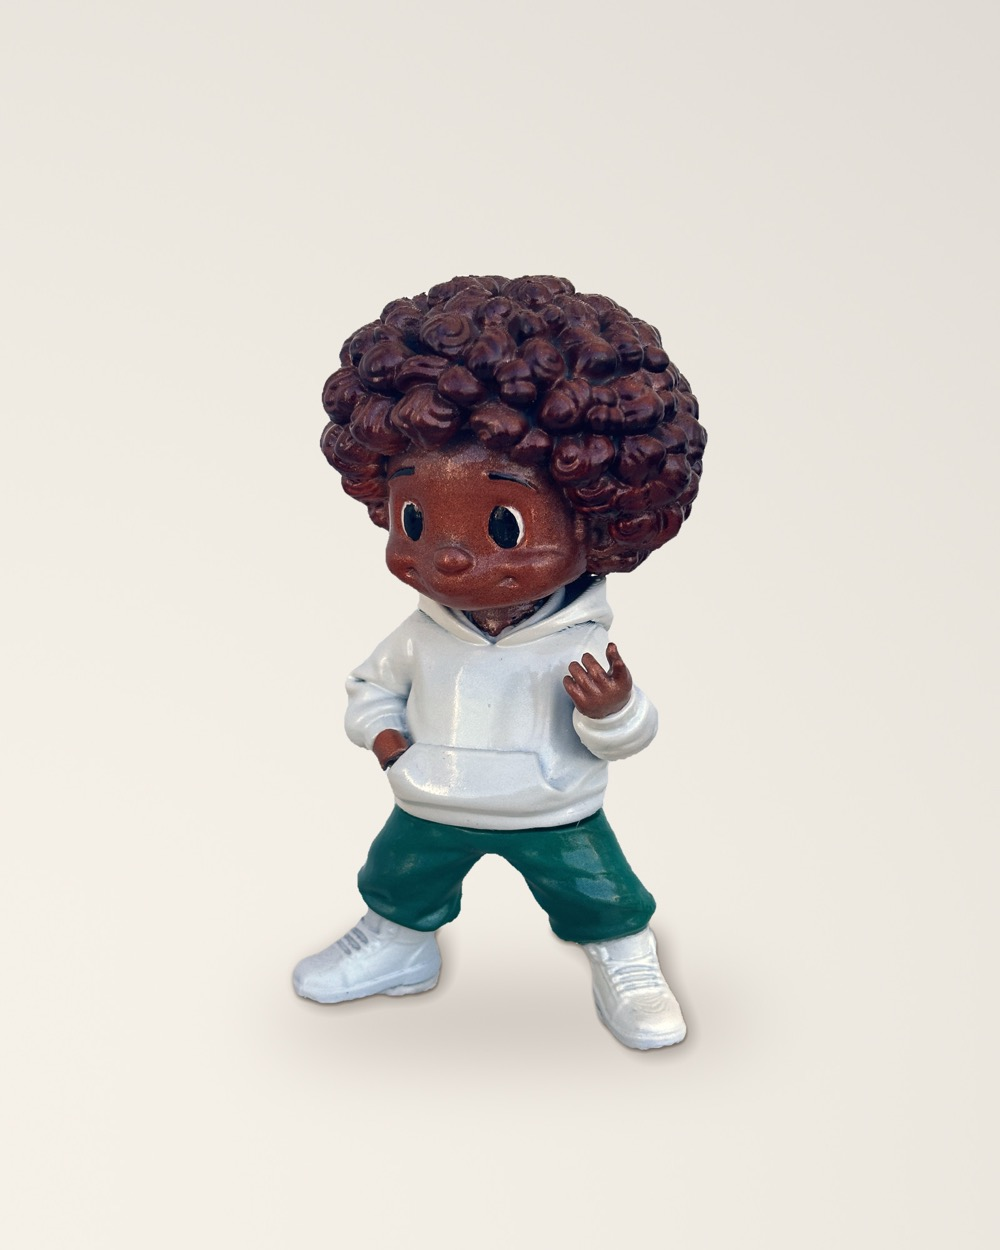
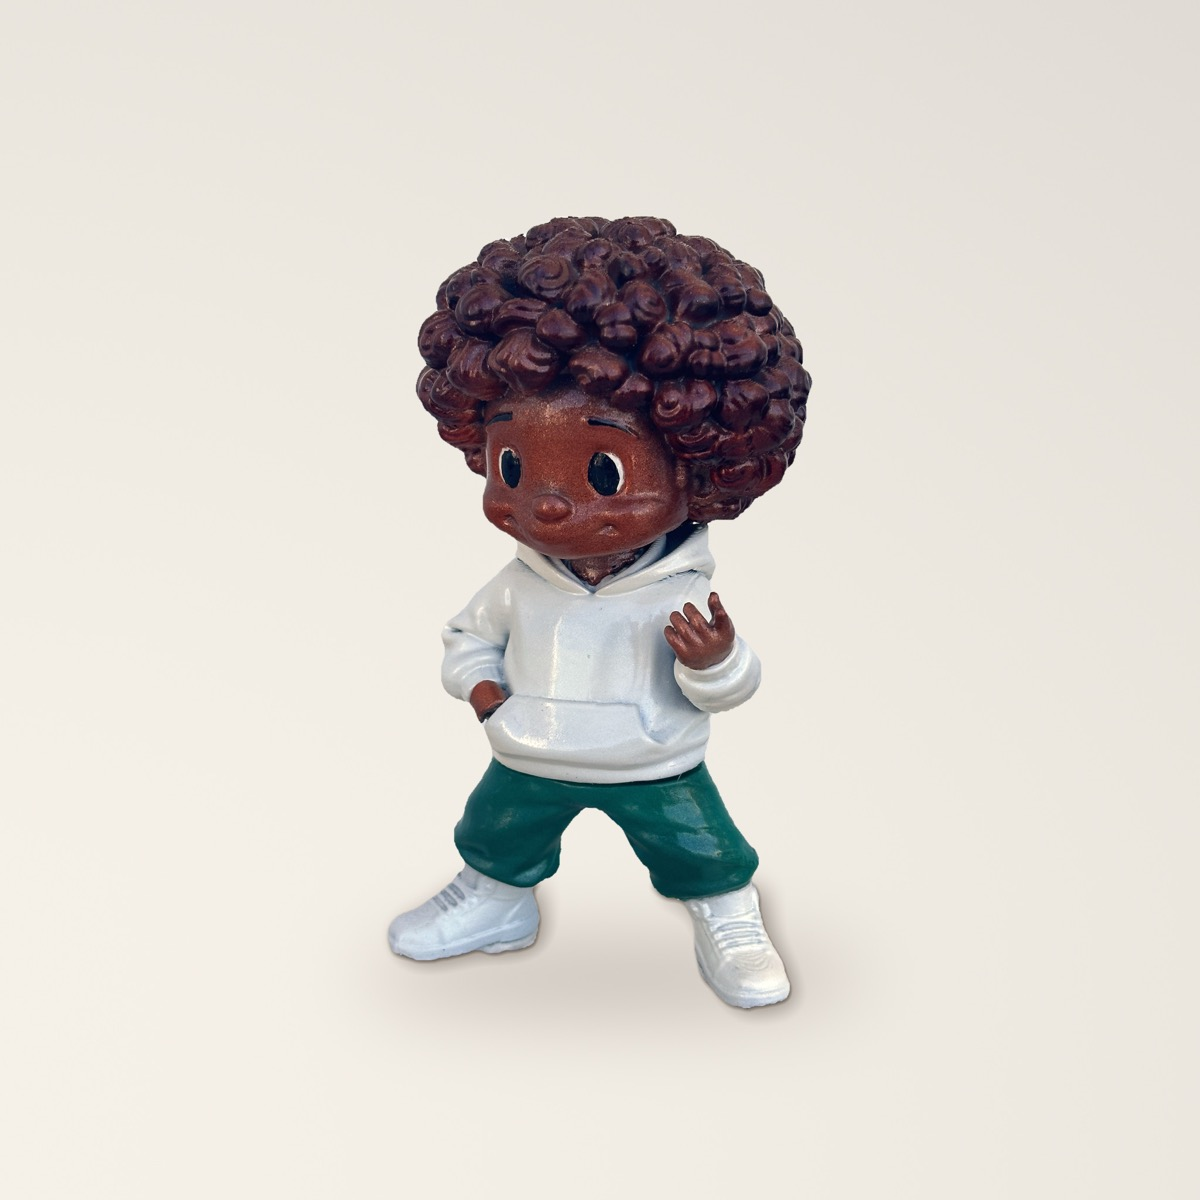
/marfa: square cherub-37 export, positioned 50% 60% (whole figure in the 4:3 plate)

Changed region(s): [[0.279, 0.1542, 0.713, 0.8633]]

diff --git a/marfa/index.html b/marfa/index.html
@@ -20,7 +20,7 @@
   .m-main { flex: 1; display: grid; grid-template-columns: minmax(0, 7fr) minmax(0, 5fr); gap: var(--s8); align-items: center; max-width: var(--page-max); width: 100%; margin: 0 auto; padding: var(--s6) var(--gutter) var(--s7); }
   .m-plate { margin: 0; }
   .m-plate .tg-plate { aspect-ratio: 4 / 3; background: #F5F0E8; }
-  .m-plate img { object-position: 50% 40%; }
+  .m-plate img { object-position: 50% 60%; }
   .m-ask .tg-h1 { font-size: clamp(40px, 5.4vw, 72px); margin-top: var(--s4); }
   .m-ask .tg-lede { margin-top: var(--s4); font-size: 19px; }
   .m-note { display: inline-flex; align-items: center; gap: 10px; margin: var(--s7) 0 var(--s3); font: 500 15px/1.3 var(--font-body); color: var(--text); }
@@ -74,7 +74,7 @@
   <figure class="m-plate">
     <div class="tg-plate">
       <img src="images/hero-cherub-37.jpg"
-           width="1000" height="1250"
+           width="1200" height="1200"
            alt="The Cherub, a Tangerines statue painted by hand: a curly-haired kid in a white hoodie and green joggers, glossy copper paint on the skin and hair.">
     </div>
   </figure>
